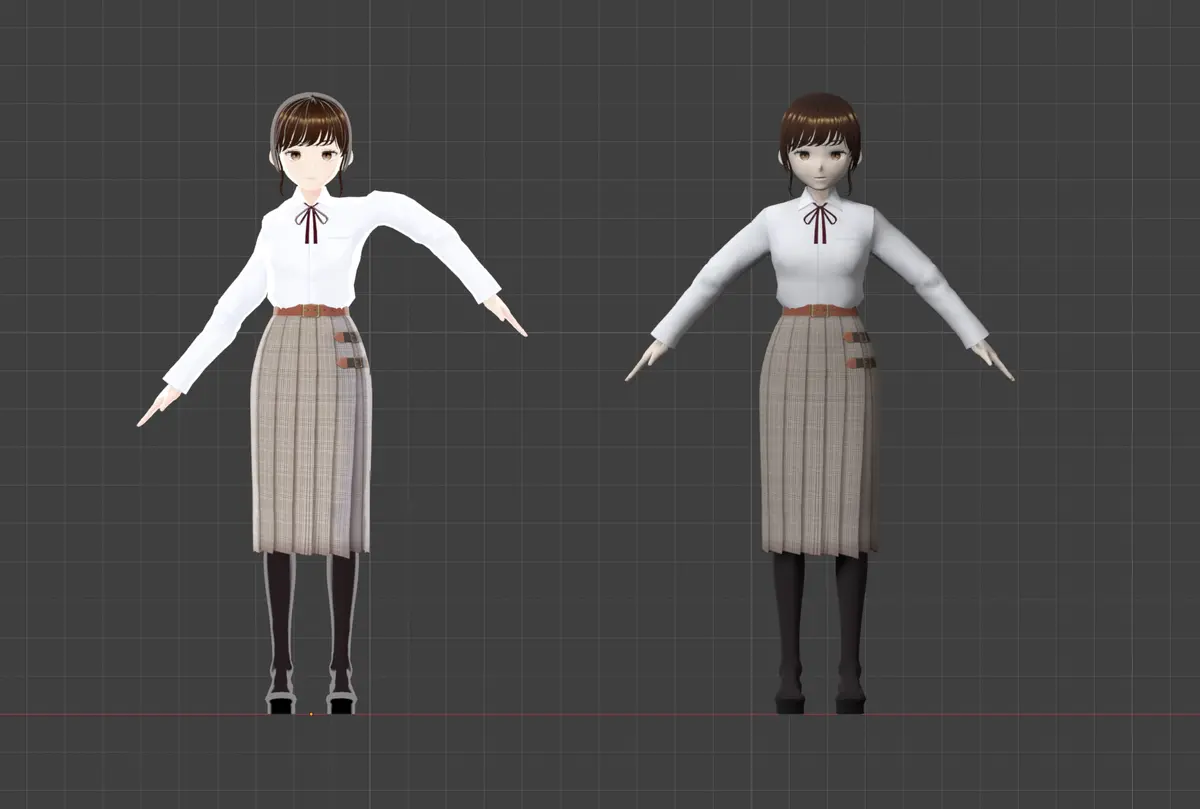
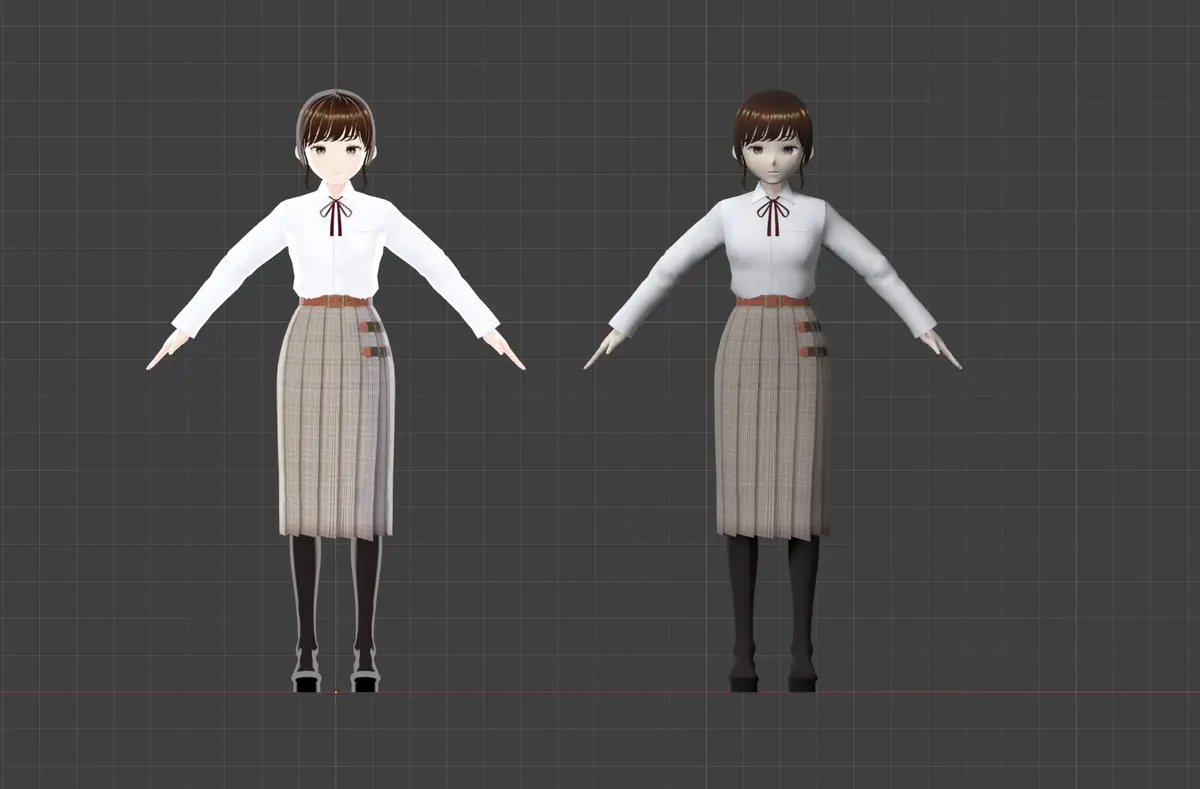
fix: モード比較の画像で片方のモデルの肩が歪んでいたのを修正
撮影スクリプトで、比較用に元のメッシュを X 方向へずらしていた。アーマチュアは
その場に残るため、アーマチュアモディファイアが変形を引き戻し、肩から腕にかけて
左右非対称に歪んでいた（複製側で先に直した問題と同じ原因）。

元のメッシュは動かさず、複製側だけをずらして両方が収まるように画角を取る形にした。
比較画像を撮り直し、あわせて hero と nodes も同じ実行で撮り直している。

Claude-Session: https://claude.ai/code/session_012FPKydr5THasvzfXm2ui12

Changed region(s): [[0.4933, 0.1217, 0.8325, 0.8821], [0.1233, 0.0913, 0.4317, 0.8821]]

diff --git a/web/ja/index.html b/web/ja/index.html
@@ -197,7 +197,7 @@
           </div>
         </div>
         <figure class="shot">
-          <div class="frame"><img src="../assets/shot-modes.webp" width="1200" height="809" alt="同じアバターを 2 体並べた比較。左は Toon ノードグループ、右は Principled BSDF で組み直したもの" loading="lazy"></div>
+          <div class="frame"><img src="../assets/shot-modes.webp" width="1200" height="789" alt="同じアバターを 2 体並べた比較。左は Toon ノードグループ、右は Principled BSDF で組み直したもの" loading="lazy"></div>
           <figcaption>同じメッシュを 2 体。左が Toon ノードグループ、右が保存済みの Unity 情報から Principled BSDF に組み直したもので、元パッケージは使っていません。</figcaption>
         </figure>
       </div>

diff --git a/web/index.html b/web/index.html
@@ -197,7 +197,7 @@
           </div>
         </div>
         <figure class="shot">
-          <div class="frame"><img src="assets/shot-modes.webp" width="1200" height="809" alt="The same avatar twice: on the left built with the Toon node group, on the right rebuilt as Principled BSDF" loading="lazy"></div>
+          <div class="frame"><img src="assets/shot-modes.webp" width="1200" height="789" alt="The same avatar twice: on the left built with the Toon node group, on the right rebuilt as Principled BSDF" loading="lazy"></div>
           <figcaption>The same meshes twice. Left: the Toon node group. Right: rebuilt as Principled BSDF from the stored Unity data, without the package.</figcaption>
         </figure>
       </div>

diff --git a/tools/shoot_screenshots.py b/tools/shoot_screenshots.py
@@ -240,8 +240,8 @@ def setup_modes_shot() -> None:
     bpy.context.view_layer.objects.active = copies[0]
     bpy.ops.unitypkg.rebuild_material(mode="PRINCIPLED", scope="SELECTED")
 
-    for obj in originals:
-        obj.location.x -= width * 0.15
+    # 元のメッシュは動かさない。アーマチュアを置いたままメッシュだけずらすと、
+    # モディファイアが変形を引き戻して肩などが歪む。
     frame_front(originals + copies)
 
 
